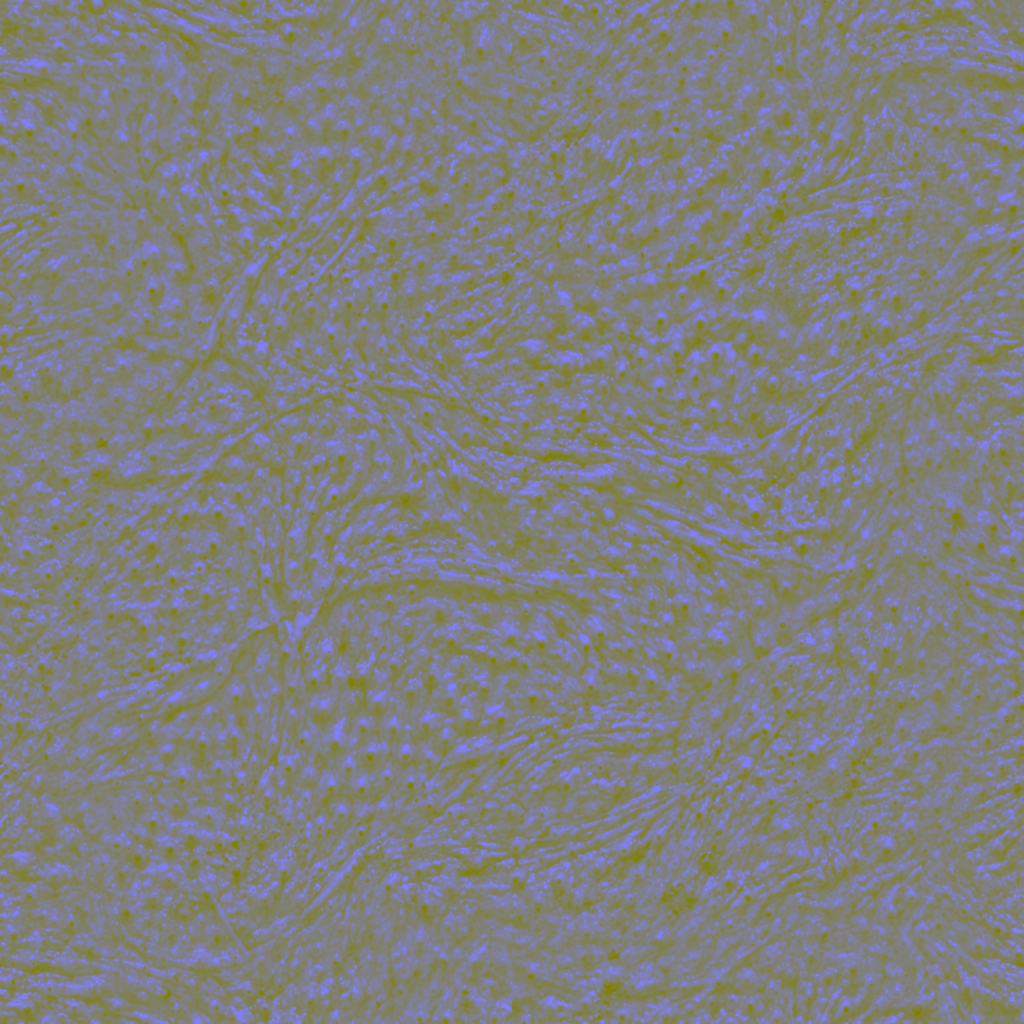
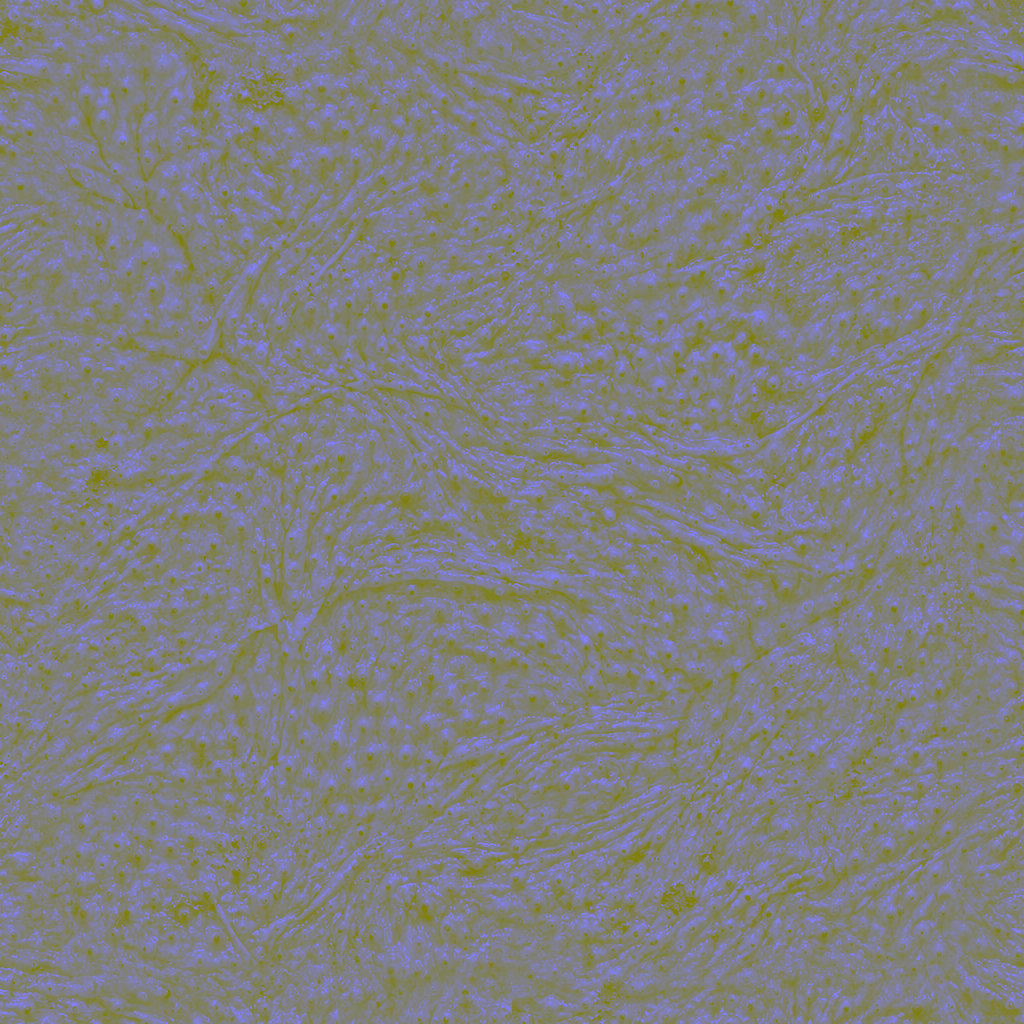
The recipe of the waders' skin sheet and its relief, with the script that makes them

diff --git a/assets-src/breath/waders/make-hide.py b/assets-src/breath/waders/make-hide.py
@@ -1,0 +1,47 @@
+"""The waders' skin sheet and its relief, from the one generated picture of bare skin.
+
+Run from the repository root: python3 assets-src/breath/waders/make-hide.py
+Reads assets-src/breath/waders/hide-take1.png, writes public/assets/breath/waders/hide.jpg and hide-nh.png.
+"""
+import numpy as np
+from PIL import Image
+from scipy.ndimage import gaussian_filter
+
+SRC = 'assets-src/breath/waders/hide-take1.png'
+OUT = 'public/assets/breath/waders/hide.jpg'
+OUT_NH = 'public/assets/breath/waders/hide-nh.png'
+SIZE = 1024
+BAND = 96
+MEAN = np.array([0.693, 0.585, 0.53])
+
+
+def smooth(a, b, x):
+    t = np.clip((x - a) / (b - a), 0.0, 1.0)
+    return t * t * (3.0 - 2.0 * t)
+
+
+src = np.asarray(Image.open(SRC).convert('RGB')).astype(np.float64) / 255.0
+left = (src.shape[1] - SIZE) // 2
+tile = src[:SIZE, left:left + SIZE]
+
+# The large light of the photograph goes, so that a repeat shows no patch.
+flat = tile - np.stack([gaussian_filter(tile[..., k], 64, mode='reflect') for k in range(3)], axis=-1)
+
+# Near each edge the picture gives way to itself moved by half its size, which has no seam there.
+i = np.arange(SIZE)
+edge = np.minimum(i, SIZE - 1 - i)
+w = smooth(0.0, BAND, edge)
+weight = (w[:, None] * w[None, :])[..., None]
+moved = np.roll(flat, (SIZE // 2, SIZE // 2), axis=(0, 1))
+wrapped = flat * weight + moved * (1.0 - weight)
+
+sheet = np.clip(wrapped - wrapped.reshape(-1, 3).mean(axis=0) + MEAN, 0.0, 1.0)
+Image.fromarray((sheet * 255.0 + 0.5).astype(np.uint8)).save(OUT, quality=92)
+
+# The relief is the fine part of the brightness: pores and creases stand, blotches do not.
+lum = sheet @ np.array([0.299, 0.587, 0.114])
+fine = lum - gaussian_filter(lum, 16, mode='wrap')
+height = np.clip(0.5 + 3.4 * fine, 0.0, 1.0)
+nh = np.full((SIZE, SIZE, 3), 128, dtype=np.uint8)
+nh[..., 2] = (height * 255.0 + 0.5).astype(np.uint8)
+Image.fromarray(nh).save(OUT_NH, optimize=True)

diff --git a/assets-src/breath/waders/RECIPE.md b/assets-src/breath/waders/RECIPE.md
@@ -1,5 +1,30 @@
 # Pictures of the waders
 
-This folder keeps no picture of its own. The skin of the waders, alive and dead, reads `public/assets/breath/mat/skin.jpg` and `public/assets/breath/mat/skin-nh.png`, the Builder's material pictures: their recipe is in `assets-src/breath/mat/RECIPE.md`.
+The skin of the waders, alive and dead, reads two pictures of its own, both built by one script from one generated picture. The script was written after the first build of the two files, which was typed by hand and not kept; both files were then remade by the script, so what is committed is what the script writes.
 
-The copies of the Heart's hide that stood here until version 2 are deleted and no longer loaded.
+## `public/assets/breath/waders/hide.jpg`
+
+Made by: `assets-src/breath/waders/make-hide.py` (Python 3.14.8, Pillow 13.0.0, numpy 2.5.5, scipy 1.18.1)
+From: `assets-src/breath/waders/hide-take1.png`
+Prompt or command: `python3 assets-src/breath/waders/make-hide.py` from the repository root. It takes the middle 1024 by 1024 of the source, takes out its large light (a blur of 64 pixels subtracted), lets a band of 96 pixels at each edge give way to the picture moved by half its size so that it wraps, and sets its mean to the hide's (0.693, 0.585, 0.53). Saved as JPEG at quality 92.
+Takes: 1 made, 1 kept
+Why this one: pores, creases, veins and blotches at a scale that holds at 3840 wide on the nearest wader, with no patch of light that would show the repeat.
+Date: 2026-11-26
+
+## `public/assets/breath/waders/hide-nh.png`
+
+Made by: `assets-src/breath/waders/make-hide.py` (Python 3.14.8, Pillow 13.0.0, numpy 2.5.5, scipy 1.18.1)
+From: `assets-src/breath/waders/hide-take1.png`, through the sheet above
+Prompt or command: `python3 assets-src/breath/waders/make-hide.py` from the repository root. The blue channel holds the fine part of the sheet's brightness (the brightness less its blur of 16 pixels, times 3.4, about one half); red and green are held at 128.
+Takes: 1 made, 1 kept
+Why this one: the relief stands where the picture shows a pore or a crease, so light and tone agree, and the blotches stay flat.
+Date: 2026-11-26
+
+## `assets-src/breath/waders/hide-take1.png`
+
+Made by: generate_image, default model
+From: nothing, a prompt alone
+Prompt or command: "Seamless tileable texture, flat top-down macro photograph filling the whole frame edge to edge: pale cream-pink bare skin of a plucked wading bird, wet. Dense goose-flesh follicle bumps and pores, fine crossing creases and wrinkles, a few faint blue-violet veins branching under the skin, irregular rose and raw red blotches, small scabs and silt specks. Even soft diffuse light, no cast shadows, no highlights hot spots, no vignette, no border, no text, no feathers, no eyes. Uniform scale across the frame, photographic, extremely sharp detail."
+Takes: 1 made of the 6 allowed, take 1 kept
+Why this one: the first take already gave even light and a uniform scale, so no second was spent.
+Date: 2026-11-26

diff --git a/assets-src/breath/ROWS-breath_life_builder.md b/assets-src/breath/ROWS-breath_life_builder.md
@@ -3,5 +3,5 @@
 | File | What | Tool or model | Prompt | Take | Date |
 | --- | --- | --- | --- | --- | --- |
 | `assets-src/breath/waders/hide-take1.png` | The source picture of the waders' bare skin: pores, creases, veins, blotches | generate_image, default model | "Seamless tileable texture, flat top-down macro photograph filling the whole frame edge to edge: pale cream-pink bare skin of a plucked wading bird, wet. Dense goose-flesh follicle bumps and pores, fine crossing creases and wrinkles, a few faint blue-violet veins branching under the skin, irregular rose and raw red blotches, small scabs and silt specks. Even soft diffuse light, no cast shadows, no highlights hot spots, no vignette, no border, no text, no feathers, no eyes. Uniform scale across the frame, photographic, extremely sharp detail." | 1 of 6 | 2026-11-26 |
-| `public/assets/breath/waders/hide.jpg` | The skin sheet the waders read: the middle 1024 of take 1, made to wrap, its large light taken out, its mean set to the hide's | Python (Pillow, numpy), from take 1 | none | 1 | 2026-11-26 |
-| `public/assets/breath/waders/hide-nh.png` | Its relief: the fine part of its brightness in the blue channel | Python (Pillow, numpy), from take 1 | none | 1 | 2026-11-26 |
+| `public/assets/breath/waders/hide.jpg` | The skin sheet the waders read: the middle 1024 of take 1, made to wrap, its large light taken out, its mean set to the hide's | `assets-src/breath/waders/make-hide.py` (Pillow, numpy, scipy), from take 1 | none | 1 | 2026-11-26 |
+| `public/assets/breath/waders/hide-nh.png` | Its relief: the fine part of its brightness in the blue channel | `assets-src/breath/waders/make-hide.py` (Pillow, numpy, scipy), from take 1 | none | 1 | 2026-11-26 |
